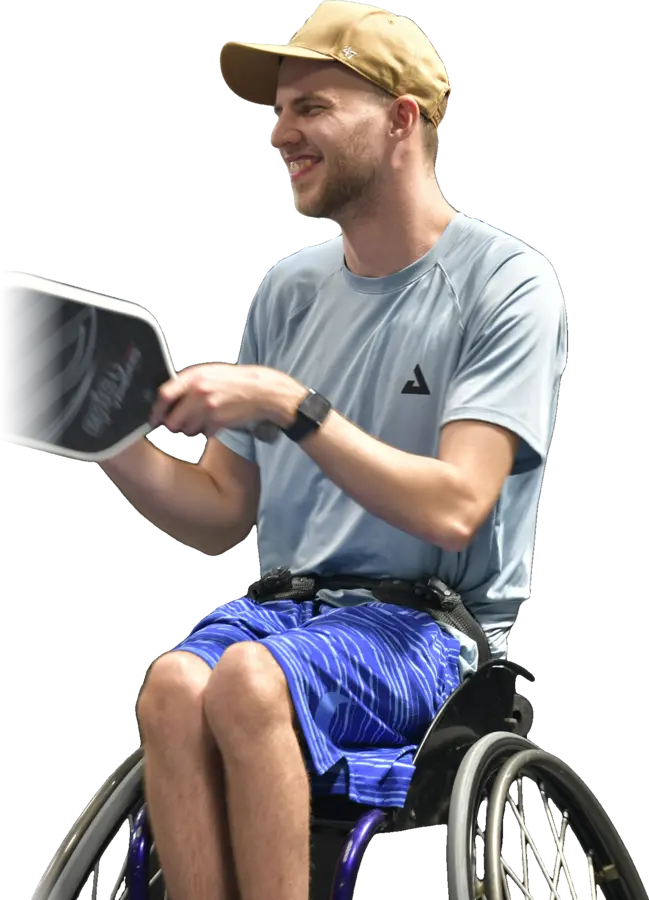
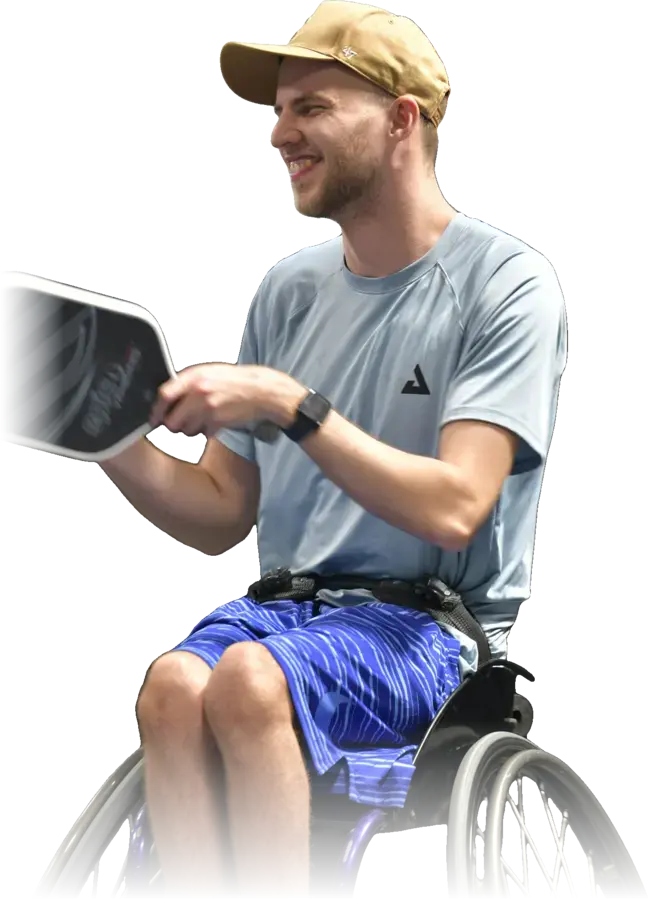
/pickleball: a clean Juan cutout, and Robby fades instead of a hard edge
Per Alec, the Juan card looked lazy: the approved cutout (and the hi-res
Transparent master) kept the gray court floor inside and under the
wheels. It now uses Robby's trace from Drive (Traced Athletes, juan
cutout 2), cut through the spokes with a clean bottom edge. Robby's
card photo was cropped flat at the bottom of the frame, so its last
180px now fade out.

Changed region(s): [[0.0308, 0.8089, 1.0, 1.0]]

diff --git a/public/pickleball.html b/public/pickleball.html
@@ -566,7 +566,7 @@ fill="currentColor" stroke="none">
       </div>
       <ul class="pb-six" data-m="stagger">
         <li class="pb-card">
-          <img src="/images/pickleball/juan.webp" alt="Juan in his sport wheelchair, paddle back for a forehand" width="612" height="900" loading="lazy">
+          <img src="/images/pickleball/juan.webp" alt="Juan in his sport wheelchair, paddle back for a forehand" width="616" height="900" loading="lazy">
           <h3>Juan</h3>
           <p>Our first ambassador. Singles gold at Monster Smash. He asked the APP Tour for its first wheelchair division, and got it.</p>
           <a class="pb-link" href="/juan">Read Juan's story</a>
